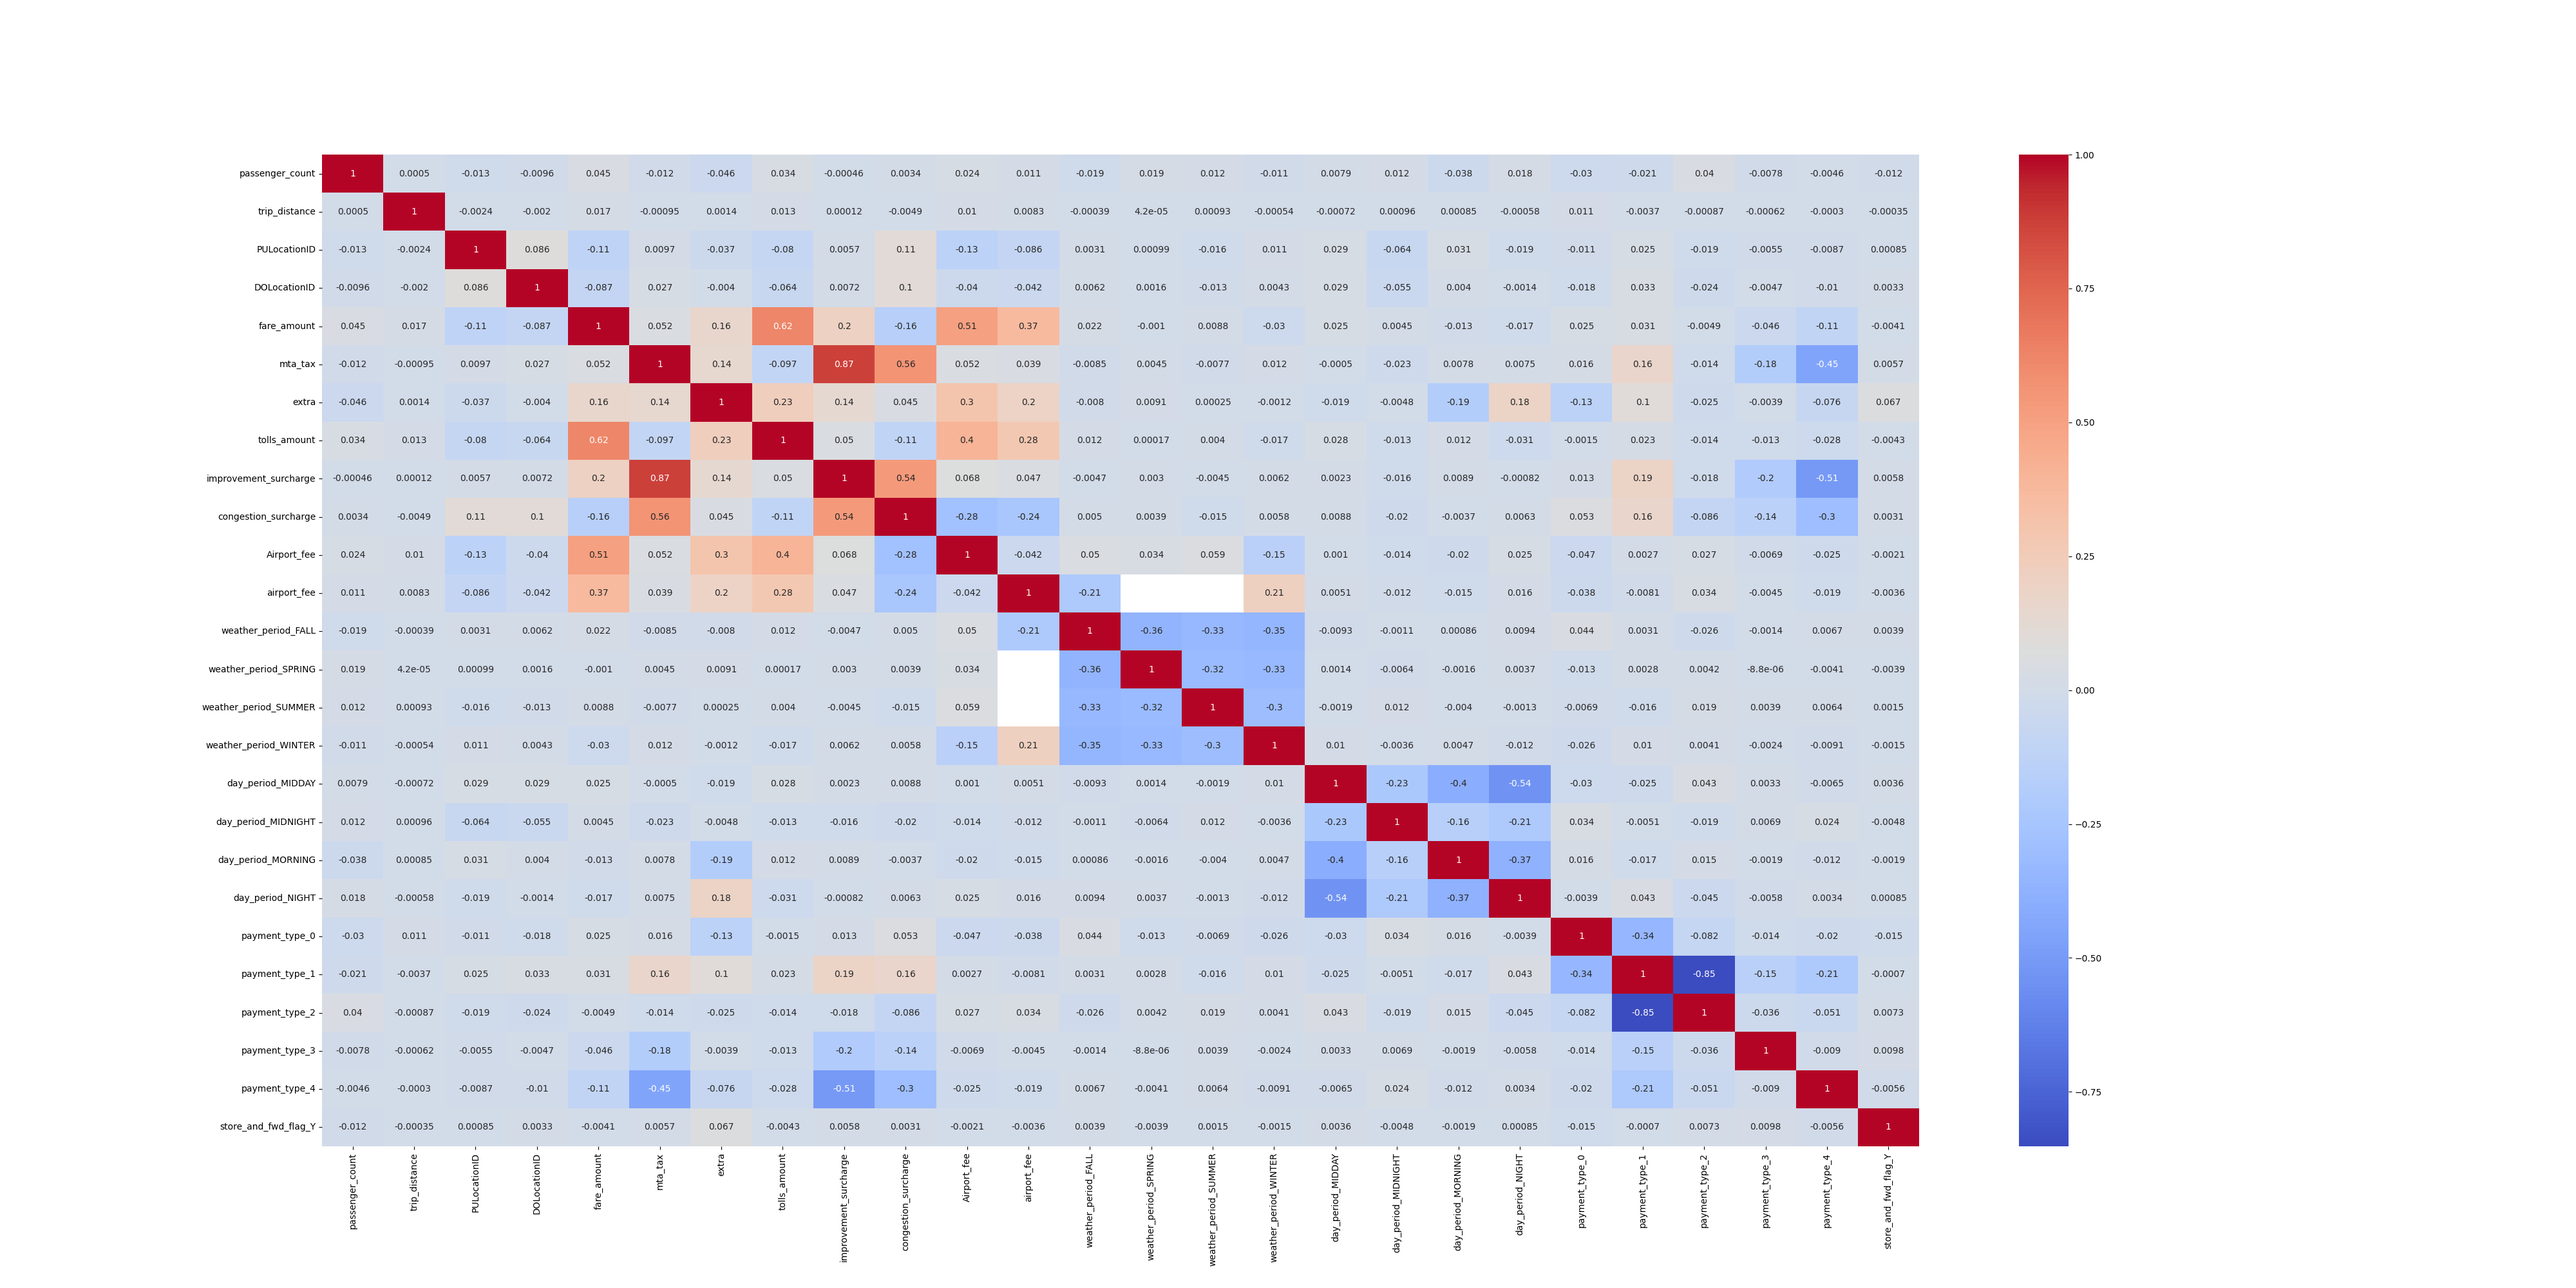
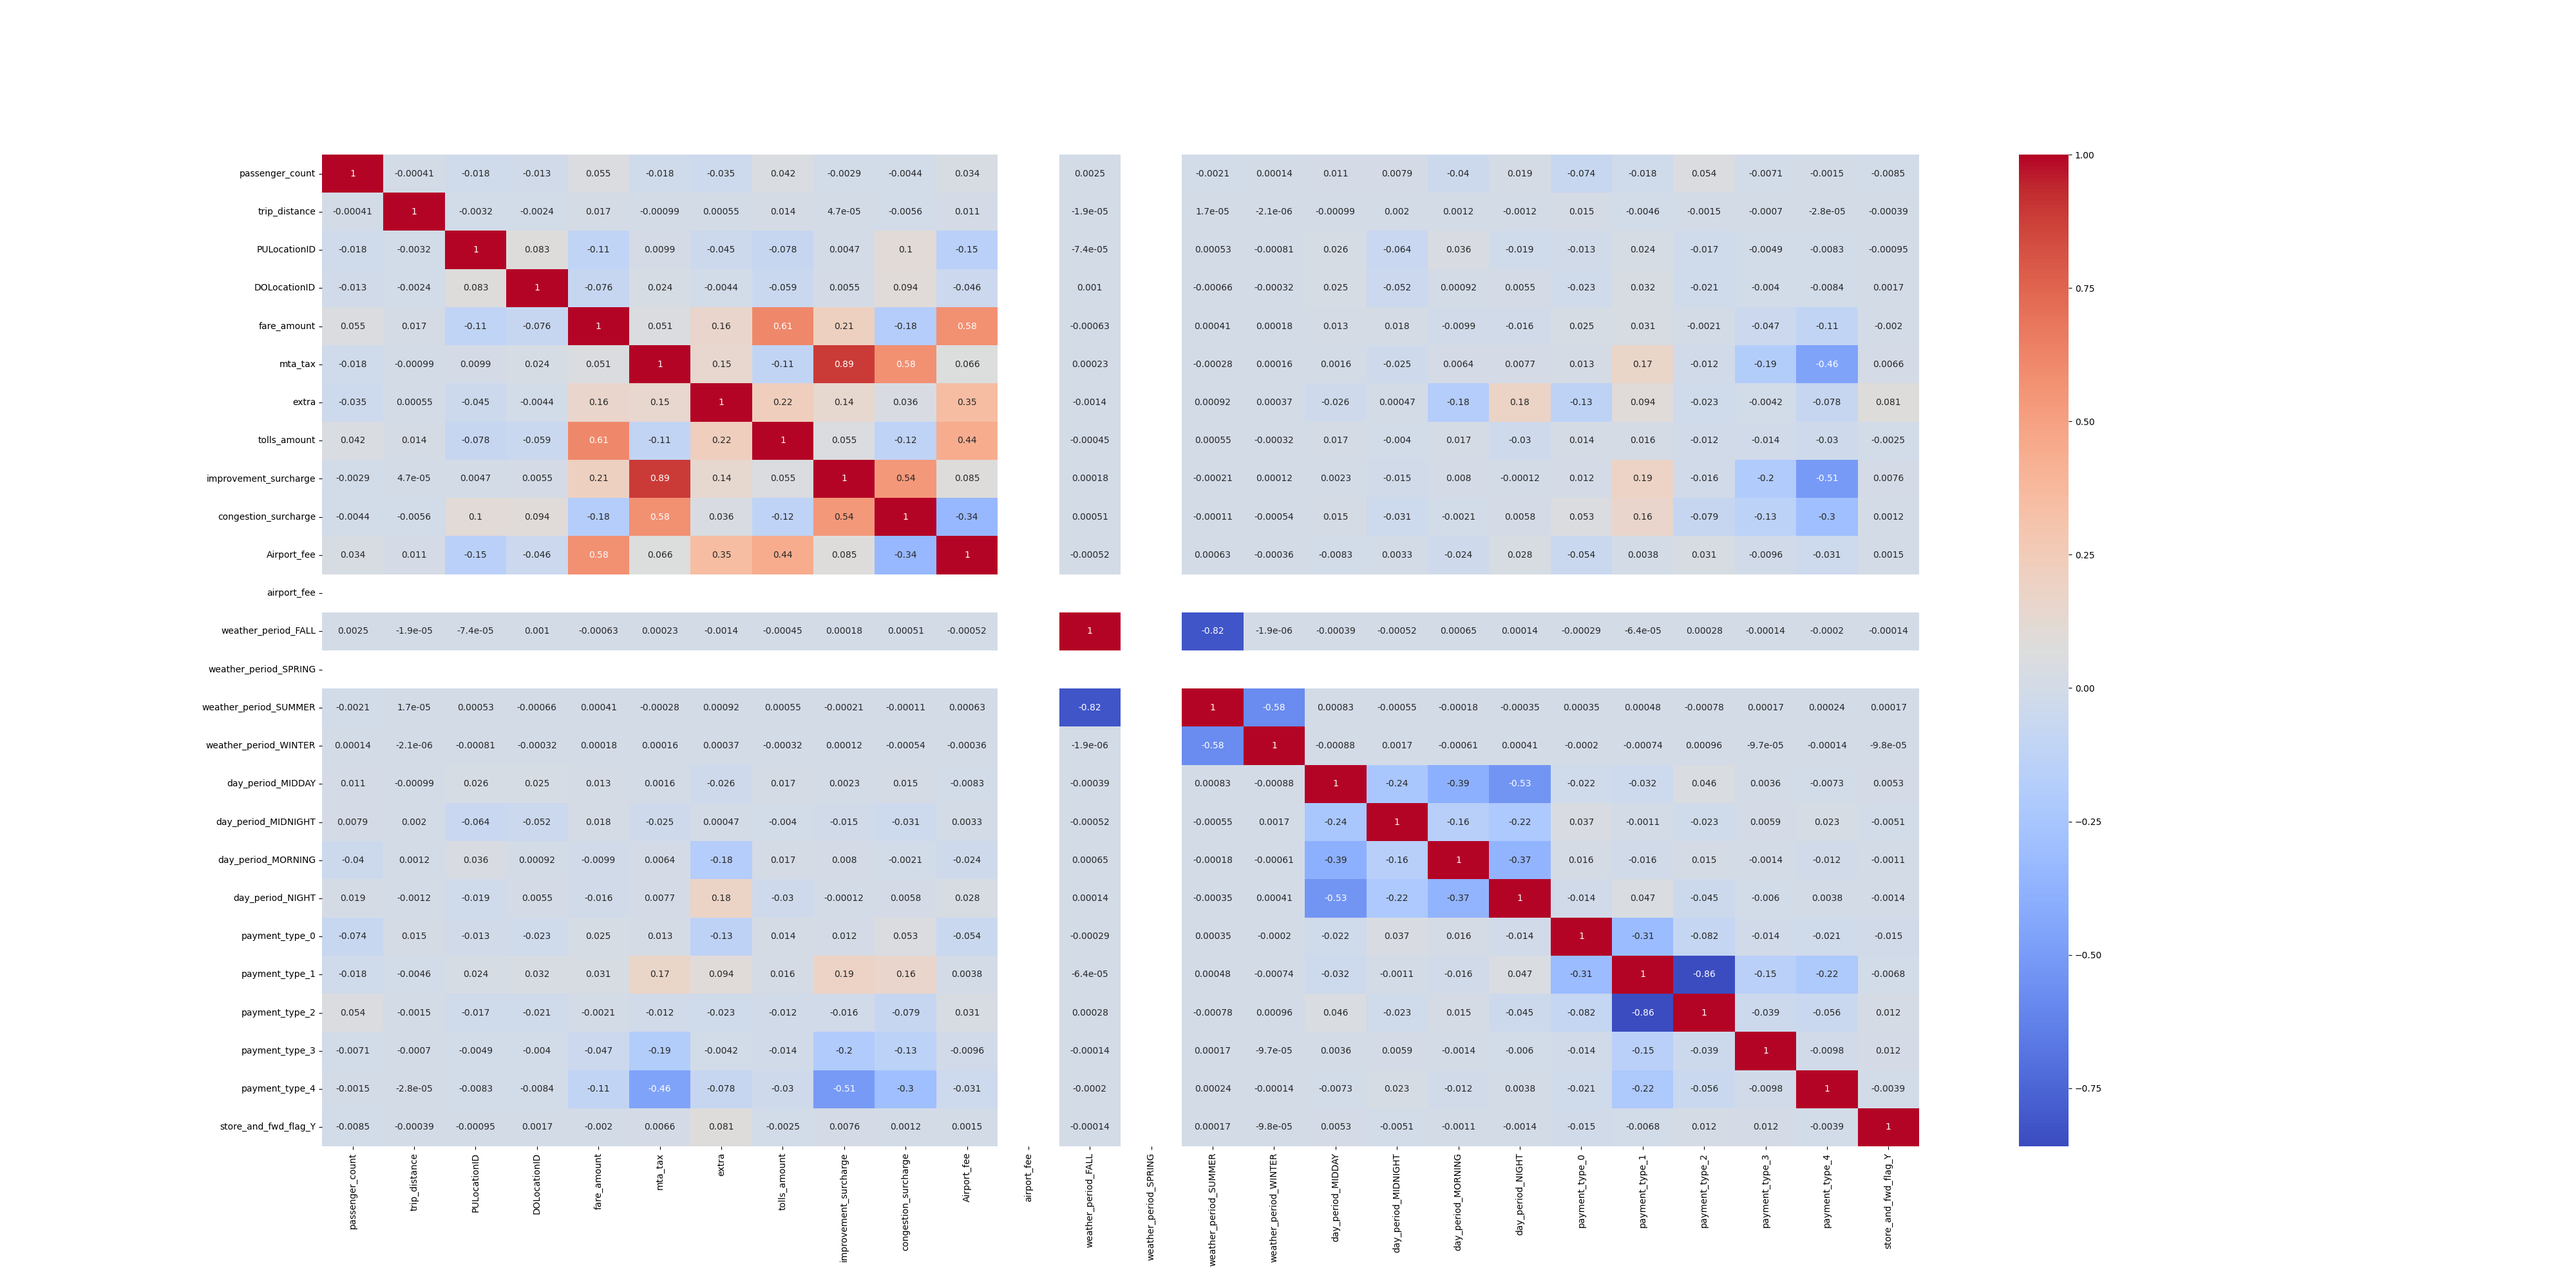
mlflow autolog implementation

Changed region(s): [[0.125, 0.124, 0.75, 0.899]]

diff --git a/data_processing.py b/data_processing.py
@@ -15,12 +15,12 @@ def eval_metrics(actual, pred):
     r2 = r2_score(actual, pred)
     return rmse, mae, r2
  
-def save_corr_map(data):
+def save_corr_map(data, name = "heat-map.png"):
     corr = data.corr()
     plt.figure(figsize=(40,20))
     plot = sn.heatmap(corr, annot=True, cmap='coolwarm')
     fig = plot.get_figure()
-    fig.savefig("heat-map.png")
+    fig.savefig(name)
     
 def split_data(data):
     train, test = train_test_split(data,random_state=42)
@@ -32,32 +32,39 @@ def split_data(data):
     
     return train_x, train_y, test_x, test_y
 
-def train_and_generate_linear_regression_model(train_x, train_y, test_x, test_y):
+def train_and_generate_linear_regression_model(train_x, train_y, test_x, test_y, model_name='fare_model_linear_regression.pkl'):
     lr = LinearRegression()
     lr.fit(train_x, train_y['fare_amount'].to_list())
-    joblib.dump(lr, 'fare_model_linear_regression.pkl')
+    joblib.dump(lr, model_name)
     predicted_qualities = lr.predict(test_x)
     (rmse, mae, r2) = eval_metrics(test_y, predicted_qualities)
     return rmse, mae, r2
 
 
-def train_and_generate_decision_tree_regressor_model(train_x, train_y, test_x, test_y):
+def train_and_generate_decision_tree_regressor_model(train_x, train_y, test_x, test_y, model_name='fare_model_decision_tree_regressor.pkl'):
     decision_tree_model = DecisionTreeRegressor()
     decision_tree_model.fit(train_x, train_y)
-    joblib.dump(decision_tree_model, 'fare_model_decision_tree_regressor.pkl')
+    joblib.dump(decision_tree_model,model_name)
     predicted_qualities2 = decision_tree_model.predict(test_x)
     (rmse, mae, r2) = eval_metrics(test_y, predicted_qualities2)
     return rmse, mae, r2
 
-def process_data(data):
+def drop_unused_column_split_data(data):
+    selected_df = data.drop(columns=['payment_type_4', 'payment_type_2','improvement_surcharge','congestion_surcharge'])
+    selected_df.drop(columns=['airport_fee'], inplace=True)
+        
+    return split_data(selected_df)
+
+
+def process_data_and_return_train_and_test_data(data):
     data = clean_data(data)
     
     save_corr_map(data)
     
-    selected_df = data.drop(columns=['payment_type_4', 'payment_type_2','improvement_surcharge','congestion_surcharge'])
-    selected_df.drop(columns=['airport_fee'], inplace=True)
-        
-    train_x, train_y, test_x, test_y = split_data(selected_df)
+    train_x, train_y, test_x, test_y = drop_unused_column_split_data(data)
     
     print(train_and_generate_linear_regression_model(train_x, train_y, test_x, test_y))
     print(train_and_generate_decision_tree_regressor_model(train_x, train_y, test_x, test_y))
+    
+    return train_x, train_y, test_x, test_y
+

diff --git a/main.py b/main.py
@@ -3,8 +3,34 @@ import pandas as pd
 import glob
 import os
 from sklearn.metrics import mean_squared_error, mean_absolute_error, r2_score
-from data_processing import process_data
+from clean_data import clean_data
+from data_processing import drop_unused_column_split_data, process_data_and_return_train_and_test_data, save_corr_map, train_and_generate_decision_tree_regressor_model, train_and_generate_linear_regression_model
 
-data = pd.concat(map(pd.read_parquet, glob.glob(os.path.join('', "/Users/saheedyusuf/Downloads/yellow-taxi-files/yellow_trip*.parquet"))))
-data.ffill(inplace=True)
-process_data(data=data)
+raw_data = pd.concat(map(pd.read_parquet, glob.glob(os.path.join('', "/Users/saheedyusuf/Downloads/yellow-taxi-files/yellow_trip*.parquet"))))
+raw_data.ffill(inplace=True)
+
+experiment = mlflow.get_experiment_by_name('nyc-taxi')
+# if (experiment.)
+
+with mlflow.start_run(experiment_id=experiment.experiment_id):
+    mlflow.autolog()
+    data = clean_data(raw_data)
+    save_corr_map(data)
+    
+    train_x, train_y, test_x, test_y = drop_unused_column_split_data(data)
+    train_and_generate_linear_regression_model(train_x, train_y, test_x, test_y, model_name='ml-flow-trained-model-linear-regression.pkl')
+    # train_and_generate_decision_tree_regressor_model(train_x, train_y, test_x, test_y, model_name='ml-flow-trained-model-decision-tree-regressor.pkl')
+    
+
+with mlflow.start_run(experiment_id=experiment.experiment_id):
+    mlflow.autolog()
+    data = clean_data(raw_data)
+    save_corr_map(data)
+    
+    train_x, train_y, test_x, test_y = drop_unused_column_split_data(data)
+    # train_and_generate_linear_regression_model(train_x, train_y, test_x, test_y, model_name='ml-flow-trained-model-linear-regression.pkl')
+    train_and_generate_decision_tree_regressor_model(train_x, train_y, test_x, test_y, model_name='ml-flow-trained-model-decision-tree-regressor.pkl')
+
+# process_data_and_return_train_and_test_data(data=data)
+
+

diff --git a/clean_data.py b/clean_data.py
@@ -1,5 +1,9 @@
 import pandas as pd
 
+ohe_columns = ['weather_period_FALL', 'weather_period_SPRING','weather_period_SUMMER', 'weather_period_WINTER',\
+       'day_period_MIDDAY', 'day_period_MIDNIGHT', 'day_period_MORNING', 'day_period_NIGHT', 'payment_type_0', 'payment_type_1',\
+       'payment_type_3', 'store_and_fwd_flag_Y']
+
 def get_weather_period(date_str):
     value = int(str(date_str).split('-')[1])
     if value >= 3 and value < 6:
@@ -23,10 +27,23 @@ def get_day_period(date_str):
         return 'NIGHT'
 
 def clean_data(data):
+    if (data.columns.to_list().count('airport_fee') == 0):
+        data['airport_fee'] = 0
+        
+    if (data.columns.to_list().count('Airport_fee') == 0):
+        data['Airport_fee'] = 0
+    
+    data.loc[data['airport_fee'] > 0, 'Airport_fee'] = data['airport_fee']
+    
     data['day_period'] = data['tpep_pickup_datetime'].apply(get_day_period)
     data['weather_period'] = data['tpep_pickup_datetime'].apply(get_weather_period)
     data_encoded = pd.get_dummies(data, columns=['weather_period', 'day_period', 'payment_type'], dtype=int)
     data_encoded = pd.get_dummies(data_encoded, columns=['store_and_fwd_flag'], drop_first=True, dtype=int)
+    
+    for col in ohe_columns:
+        if (data_encoded.columns.to_list().count(col) == 0):
+            data_encoded[col] = 0
+    
     cleaned_data = data_encoded[['passenger_count','trip_distance','PULocationID','DOLocationID','fare_amount','mta_tax','extra', 'tolls_amount', \
                   'improvement_surcharge', 'congestion_surcharge', 'Airport_fee', 'airport_fee', 'weather_period_FALL', \
                    'weather_period_SPRING', 'weather_period_SUMMER','weather_period_WINTER', 'day_period_MIDDAY', 'day_period_MIDNIGHT',\
